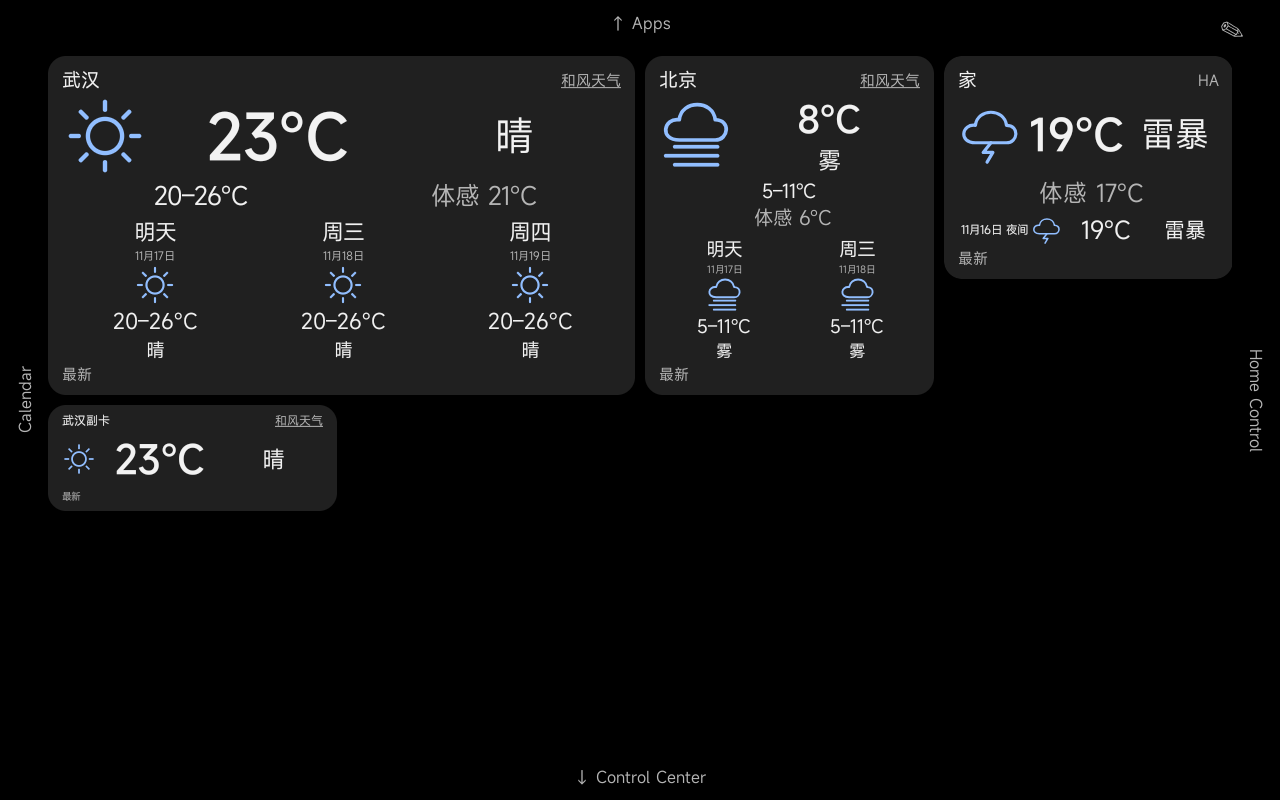
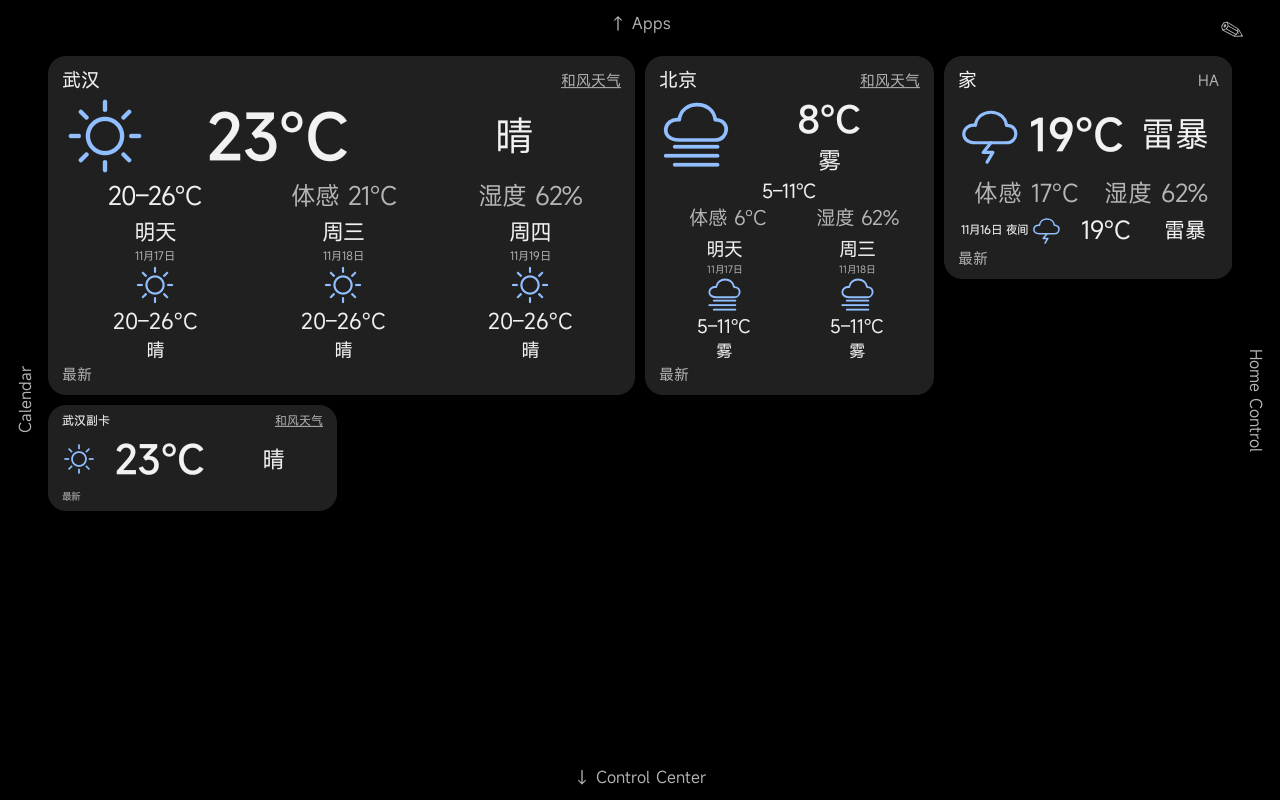
天气卡片空间足够时同时显示体感和湿度

diff --git a/app/src/main/java/com/dormpanel/app/dashboard/card/WeatherCardView.kt b/app/src/main/java/com/dormpanel/app/dashboard/card/WeatherCardView.kt
@@ -6,6 +6,7 @@ import android.content.Context
 import android.content.Intent
 import android.content.IntentFilter
 import android.graphics.Paint
+import android.util.TypedValue
 import android.view.Gravity
 import android.widget.LinearLayout
 import android.widget.TextView
@@ -55,7 +56,8 @@ class WeatherCardView internal constructor(
     private val summary = row()
     private val todayRange = text(30f)
     private val metrics = row()
-    private val metricLabels = List(2) { text(25f, secondary = true) }
+    private val metricLabels = List(3) { text(25f, secondary = true) }
+    private val metricPaint = Paint()
     private val forecast = row()
     private val forecastCells = List(3) { ForecastCell() }
     private var measuredPolicy: LayoutKey? = null
@@ -167,7 +169,8 @@ class WeatherCardView internal constructor(
         })
 
         val preferred = binding?.metric ?: WeatherCardMetric.FEELS_LIKE
-        val details = (listOf(preferred, WeatherCardMetric.HUMIDITY) + WeatherCardMetric.entries).distinct()
+        val details = (listOf(preferred, WeatherCardMetric.HUMIDITY, WeatherCardMetric.FEELS_LIKE) + WeatherCardMetric.entries)
+            .distinct()
             .mapNotNull { choice ->
                 when (choice) {
                     WeatherCardMetric.HUMIDITY -> conditions?.metric(choice)
@@ -175,15 +178,14 @@ class WeatherCardView internal constructor(
                     WeatherCardMetric.WIND -> conditions?.takeIf { it.windSpeed != null }?.metric(choice)
                     else -> conditions?.metric(choice, unit)
                 }
+            }.take(if (preferred == WeatherCardMetric.WIND) 3 else 2)
+        metricLabels.forEachIndexed { index, view ->
+            val value = details.getOrNull(index).orEmpty()
+            if (view.text != value) {
+                view.text = value
+                requestLayout()
             }
-        val metricCount = when {
-            presentation.summary && (card.size.columnSpan >= 3 || card.size.rowSpan == 3) -> 2
-            presentation.summary || (card.size.columnSpan >= 3 && todayRange.text.isEmpty()) -> 1
-            else -> 0
         }
-        metricLabels.forEachIndexed { index, view -> view.setReading(details.getOrNull(index)?.takeIf { index < metricCount }) }
-        metrics.show(metricLabels.any { it.visibility == VISIBLE })
-        summary.show(todayRange.visibility == VISIBLE || metrics.visibility == VISIBLE)
 
         val slots = presentation.forecastColumns
         val lines = when {
@@ -226,9 +228,14 @@ class WeatherCardView internal constructor(
 
     override fun onMeasure(widthMeasureSpec: Int, heightMeasureSpec: Int) {
         if (isBound) {
-            val key = LayoutKey(MeasureSpec.getSize(widthMeasureSpec), MeasureSpec.getSize(heightMeasureSpec),
+            val width = MeasureSpec.getSize(widthMeasureSpec)
+            val metricCount = visibleMetricCount(width)
+            metricLabels.forEachIndexed { index, label -> label.show(index < metricCount) }
+            metrics.show(metricCount > 0)
+            summary.show(todayRange.visibility == VISIBLE || metricCount > 0)
+            val key = LayoutKey(width, MeasureSpec.getSize(heightMeasureSpec),
                 resources.configuration.fontScale, resources.displayMetrics.density, card.size.columnSpan, card.size.rowSpan,
-                todayRange.visibility == VISIBLE, metricLabels.count { it.visibility == VISIBLE },
+                todayRange.visibility == VISIBLE, metricCount,
                 forecastCells.count { it.root.visibility == VISIBLE })
             if (measuredPolicy != key) {
                 measuredPolicy = key
@@ -236,6 +243,29 @@ class WeatherCardView internal constructor(
             }
         }
         super.onMeasure(widthMeasureSpec, heightMeasureSpec)
+    }
+
+    private fun visibleMetricCount(width: Int): Int {
+        val count = metricLabels.count { it.text.isNotEmpty() }
+        if (count == 0) return 0
+        val hasRange = todayRange.visibility == VISIBLE
+        if (card.size.rowSpan == 1) return if (card.size.columnSpan >= 3 && !hasRange) 1 else 0
+
+        val rangeShares = if (hasRange && !weatherPresentation(card.size).stackedCurrent) 1 else 0
+        val available = width - 28.dp
+        val minimumPx = TypedValue.applyDimension(TypedValue.COMPLEX_UNIT_SP, 15f, resources.displayMetrics)
+        fun fits(label: TextView, slot: Int): Boolean {
+            metricPaint.set(label.paint)
+            metricPaint.textSize = minimumPx
+            val margin = if (label === todayRange) 0 else 6.dp
+            return metricPaint.measureText(label.text.toString()) + margin + 3 <= slot
+        }
+        for (visible in count downTo 2) {
+            val slot = available / (visible + rangeShares)
+            if ((rangeShares == 0 || fits(todayRange, slot)) &&
+                (0 until visible).all { fits(metricLabels[it], slot) }) return visible
+        }
+        return 1
     }
 
     private fun applyLayout(key: LayoutKey) {
@@ -264,8 +294,8 @@ class WeatherCardView internal constructor(
             LayoutParams.MATCH_PARENT).apply { marginEnd = 8.dp }
 
         summary.orientation = if (stacked) VERTICAL else HORIZONTAL
-        todayRange.layoutParams = weighted(!stacked, if (card.size.columnSpan == 3) 1.05f else 1f)
-        metrics.layoutParams = weighted(!stacked, if (!stacked && key.metrics > 1) 1.7f else 1f)
+        todayRange.layoutParams = weighted(!stacked, 1f)
+        metrics.layoutParams = weighted(!stacked, if (stacked) 1f else key.metrics.coerceAtLeast(1).toFloat())
         todayRange.maximumTextSp = when { compact -> 22f; tall -> 36f; else -> 30f }
         metricLabels.forEach { it.maximumTextSp = if (tall) 28f else 24f }
 

diff --git a/app/src/androidTest/java/com/dormpanel/app/CoreDashboardTest.kt b/app/src/androidTest/java/com/dormpanel/app/CoreDashboardTest.kt
@@ -492,7 +492,7 @@ class CoreDashboardTest {
             override fun plan(source: WeatherSourceRef, zone: ZoneId, query: WeatherQuery, now: Instant): WeatherPlan {
                 val temp = values.getValue(source).toDouble()
                 val code = when (source) { home -> "lightning-rainy"; wuhan -> "100"; else -> "500" }
-                val current = WeatherConditions(code, temperature = temp, feelsLike = temp - 2)
+                val current = WeatherConditions(code, temperature = temp, feelsLike = temp - 2, humidity = 62.0)
                 val forecast = List(4) { day ->
                     WeatherForecast(WeatherPeriod(date = now.atZone(zone).toLocalDate().plusDays(day.toLong())),
                         WeatherConditions(code, minTemperature = temp - 3, maxTemperature = temp + 3))
@@ -584,6 +584,8 @@ class CoreDashboardTest {
                 }
                 onView(allOf(withText("和风天气"), isDescendantOfA(card("武汉副卡")))).check(matches(isDisplayed()))
                 onView(allOf(withText("HA"), isDescendantOfA(card("家")))).check(matches(isDisplayed()))
+                onView(allOf(withText("体感 17°C"), isDescendantOfA(card("家")))).check(matches(isDisplayed()))
+                onView(allOf(withText("湿度 62%"), isDescendantOfA(card("家")))).check(matches(isDisplayed()))
                 val instrumentation = InstrumentationRegistry.getInstrumentation()
                 val filter = android.content.IntentFilter(android.content.Intent.ACTION_VIEW).apply {
                     addDataScheme("https")
@@ -981,6 +983,10 @@ class CoreDashboardTest {
                             }
                             assertTrue(text.any { it.text == "-123–105°F" })
                             assertTrue(text.any { it.text == "离线 · 已过期" })
+                            if (size.rowSpan >= 2 && (size.columnSpan >= 3 || size.rowSpan == 3)) {
+                                assertTrue("$scale $size missing feels-like", text.any { it.text.startsWith("体感 ") })
+                                assertTrue("$scale $size missing humidity", text.any { it.text == "湿度 95%" })
+                            }
                             val forecastIcons = shown.filterIsInstance<com.dormpanel.app.dashboard.card.WeatherIconView>()
                             assertEquals(if (size.rowSpan > 1) 2 else 1, forecastIcons.size)
                             assertTrue(forecastIcons.all { it.width >= 20 && it.height >= 20 })

diff --git a/docs/verification/pr83-x08e-weather.md b/docs/verification/pr83-x08e-weather.md
@@ -4,6 +4,8 @@
 
 一行高的卡片优先显示当前读数；两行高的卡片以一行显示最近的预报；三行高的卡片纵向显示预报日期、天气图标、温度和描述。较窄的 2×3 将当前温度和天气描述叠放。高度足够时，「明天」或星期下方显示较小的具体日期。
 
+两行及以上的卡片按温度区间和指标的实际文字宽度安排空间，放得下时同时显示体感和湿度。选择风速时，风速优先，有空间也可同时保留体感和湿度。
+
 Android Debug、X08E testbed 及其仪器测试 APK 构建成功。25 项相关 JVM 测试通过。X08E 实机（Android 9、1280×800、160 dpi）上的 5 项天气卡片相关 UI 测试通过，覆盖：
 
 - 九种合法尺寸的文字与图标边界，以及大 → 小 → 大的字号恢复。
@@ -15,7 +17,9 @@ Android Debug、X08E testbed 及其仪器测试 APK 构建成功。25 项相关 
 
 额外运行的完整天气中心用例 `fakeWeatherRendersForecastAndOnlyOpensSpecialtyDemandOnSelection` 在「上弦月」不在可见区域的断言处失败。用最新 `main`（`267646a`）构建隔离 APK 后在同一台设备复现了相同失败。
 
-下图为同一组测试数据在旧版和新版的对照：4×3、2×3、2×2 和 2×1。
+调整指标布局后重新构建，14 项展示 JVM 测试和 3 项 X08E 实机回归通过。实机测试确认 2×2 HA 卡片同时显示体感和湿度，并检查较大卡片在两档字号下同时显示两项。
+
+下图对照 4×3、2×3、2×2 和 2×1。新版截图的测试数据同时提供了体感和湿度。
 
 ![优化前](pr83-x08e-weather-before.png)
 
